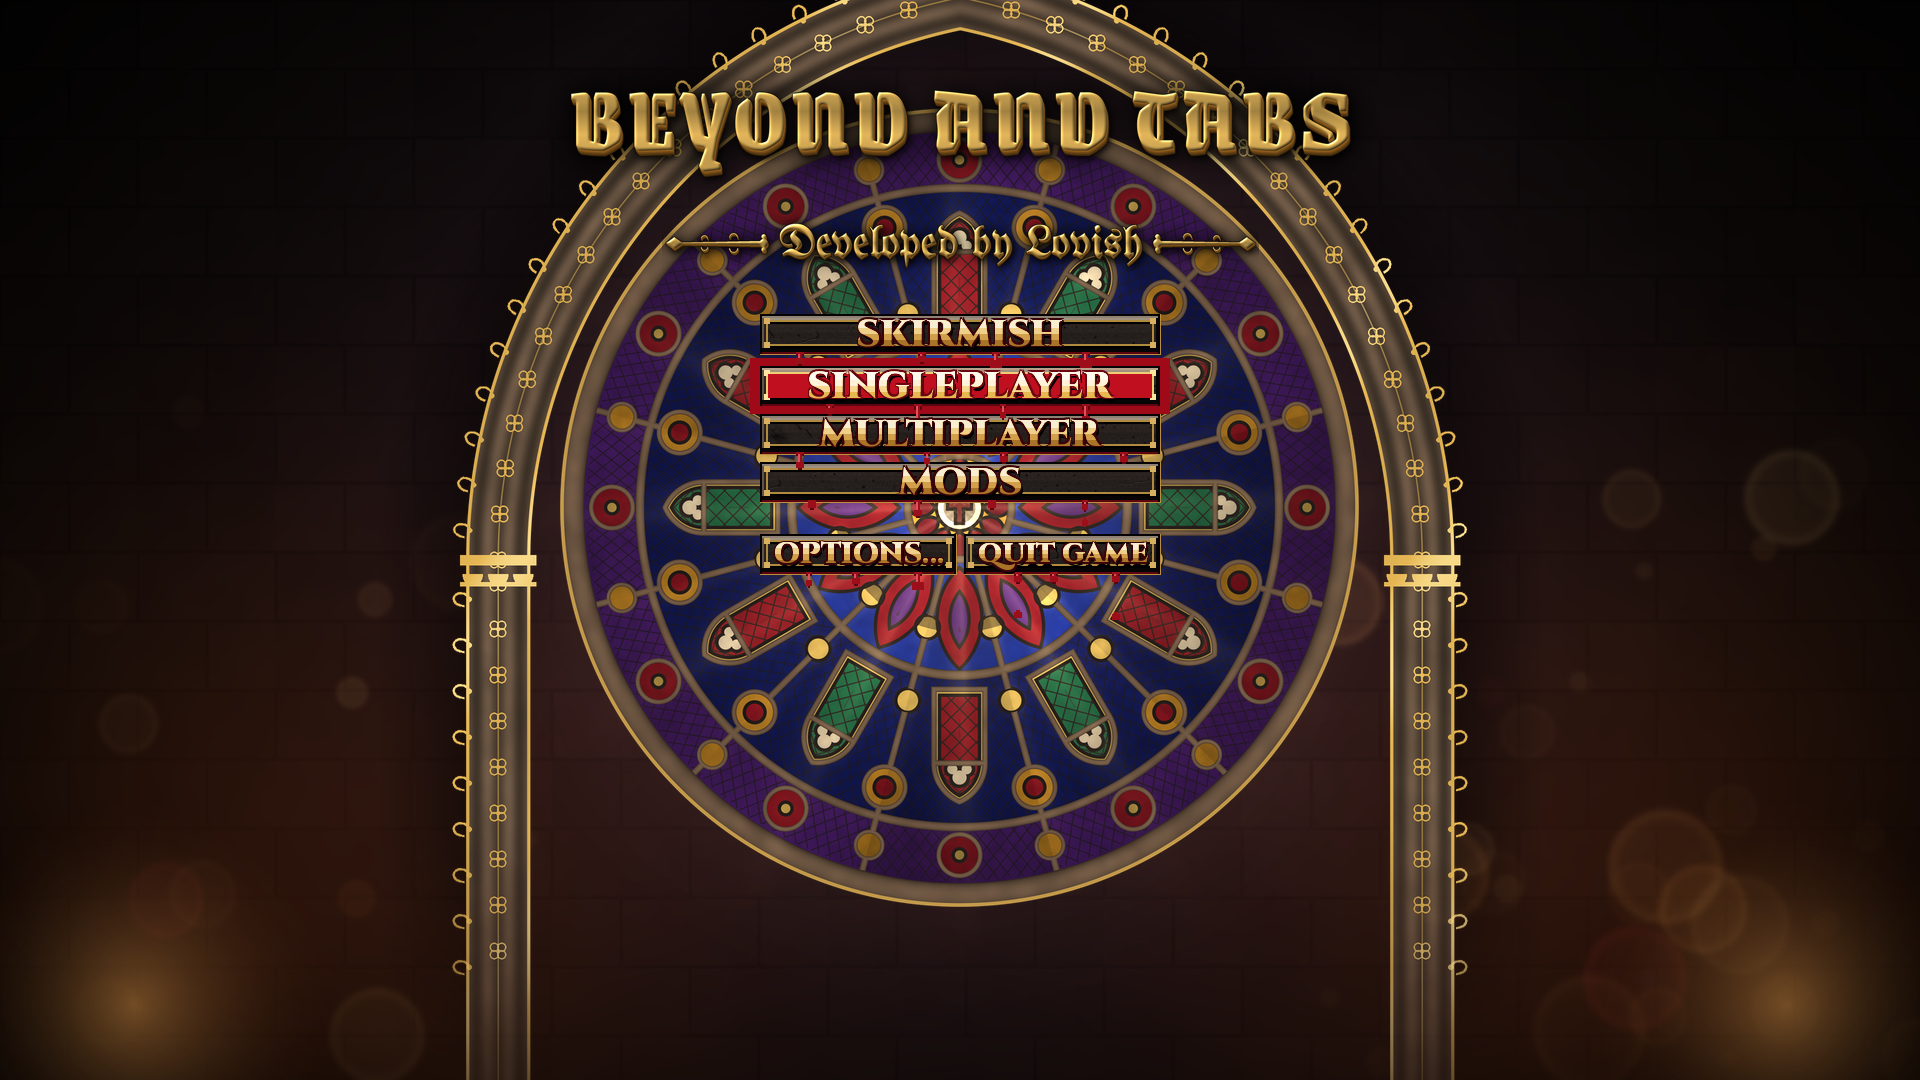
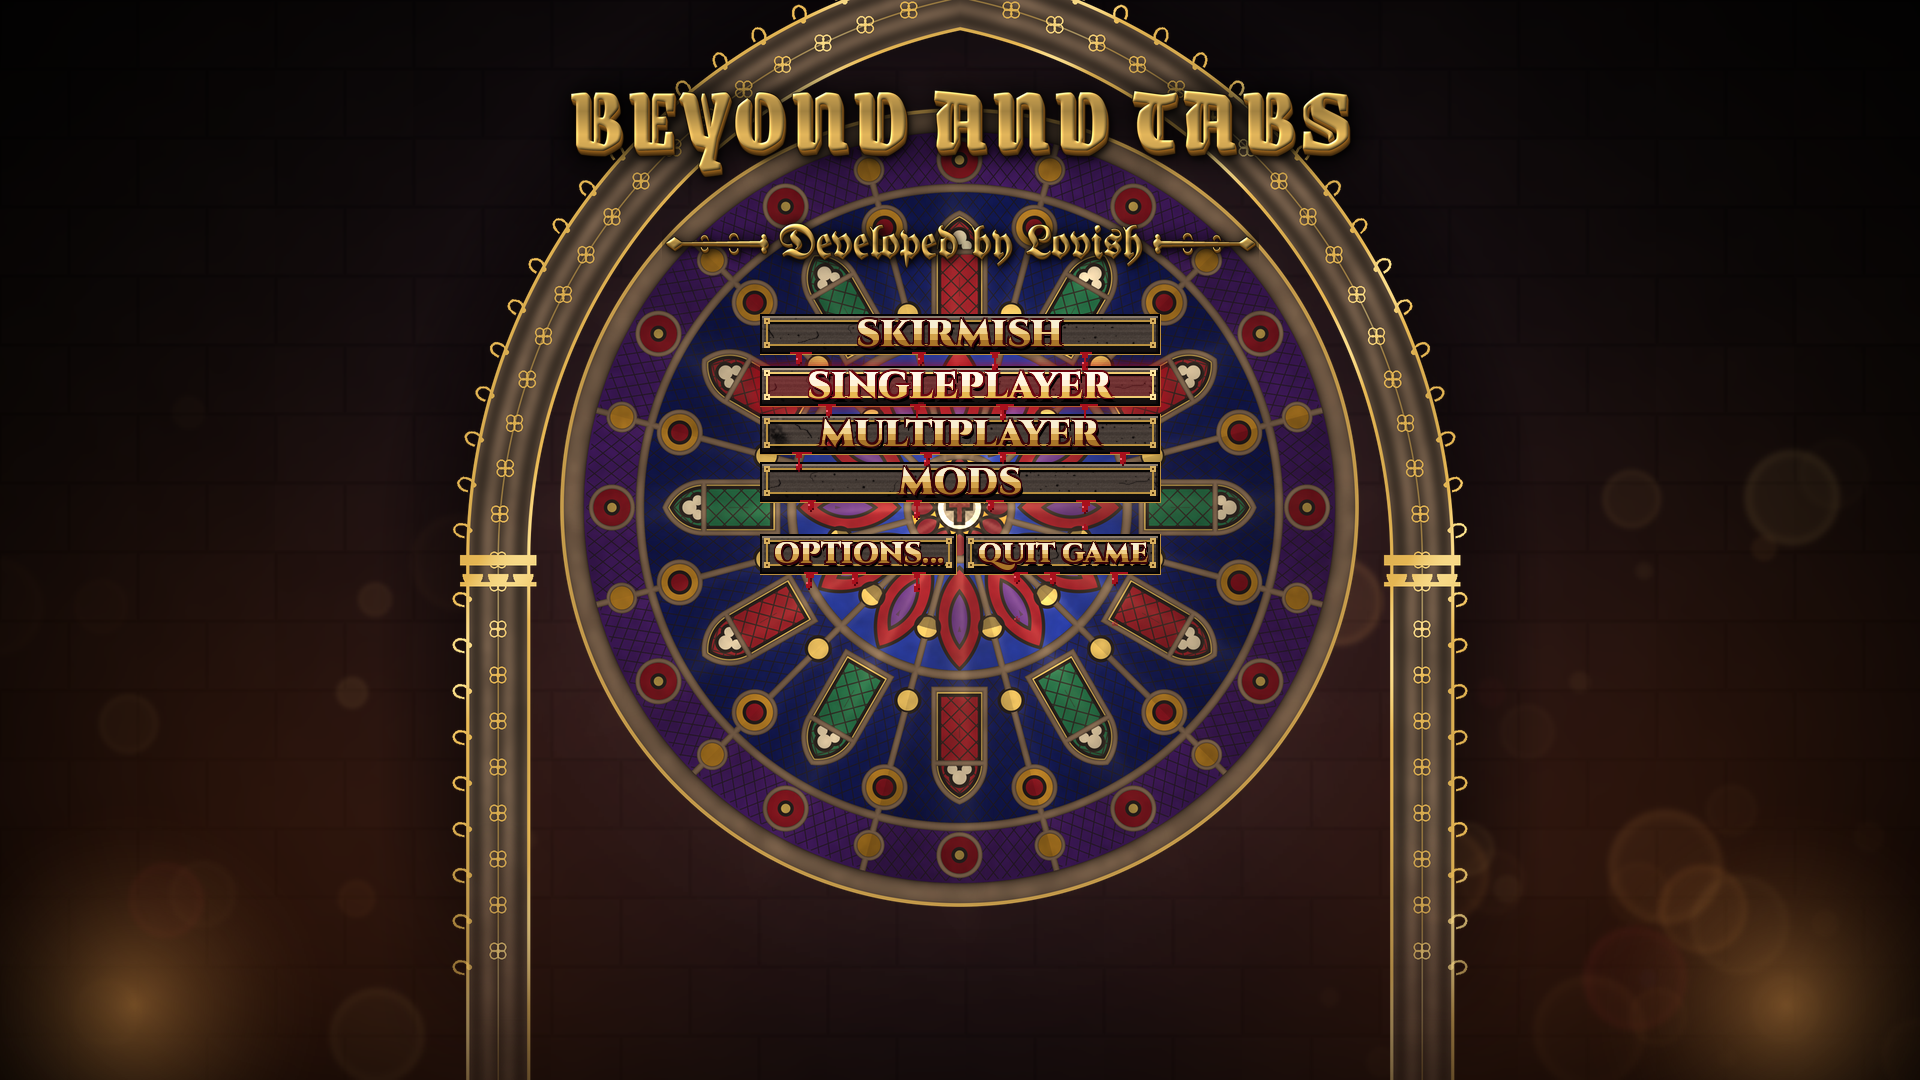
Lobby round 4: title + lobby buttons as carved stone plates with big Cinzel capitals and visible blood
Every restyled button label is now Cinzel Black capitals at ~65 % of the button height (provider lobby_plate, size 25,
scaled down only when a label would not fit), ivory to gold in four bands with a dark crimson outline and a drop
shadow; blackletter stays for the headings. The plate is carved dark stone (textures/gui/lobby/plate.png, sampled per
button) with a bevel, a sunken field, a gold inlay with corner studs and a breathing crimson glow on hover. Blood seeps
from the plate's bottom edge in 2-4 strands that grow, bead and drop (longer and 3x quicker on hover, a burst while
pressed), drawn in a third pass so they hang over the plate below. Positions and hit areas unchanged. Previews at GUI
scale 2 and 4: design/lobby_buttons_gui{2,4}.png.

Claude-Session: https://claude.ai/code/session_01GbCmdes2KTDWiHboVqm6VR

Changed region(s): [[0.375, 0.275, 0.625, 0.4583], [0.4062, 0.4889, 0.5938, 0.55]]

diff --git a/bar/src/main/java/com/solegendary/reignofnether/hud/GothicText.java b/bar/src/main/java/com/solegendary/reignofnether/hud/GothicText.java
@@ -34,9 +34,8 @@ public final class GothicText {
     public static final ResourceLocation BUTTON_FONT = ResourceLocation.fromNamespaceAndPath(ReignOfNether.MOD_ID, "lobby_button");
     public static final ResourceLocation CAPS_FONT = ResourceLocation.fromNamespaceAndPath(ReignOfNether.MOD_ID, "lobby_caps");
     // glyph heights in GUI units (the providers' sizes)
-    private static final int TITLE_H = 16, BUTTON_H = 12, CAPS_H = 10;
+    private static final int TITLE_H = 16;
 
-    private static final int RIM = 0xFFB8892F, RIM_HOT = 0xFFF0CC72;
     private static final int BLOOD_DEEP = 0xFF7E0812, BLOOD = 0xFFB8141F, BLOOD_LIGHT = 0xFFE8505A;
     private static final int STRAND = 0xFF8A0A14, STRAND_HI = 0xFFD8444E;
 
@@ -207,7 +206,7 @@ public final class GothicText {
     private static final float BTN_SIZE = 25f, BTN_CAP = BTN_SIZE * 700f / 1348f, BTN_CAP_TOP = BTN_SIZE * 276f / 1348f;
     private static final int IVORY = 0xFFF8EED2, IVORY_GOLD = 0xFFEFD08A, GOLD = 0xFFD2A04A, GOLD_DEEP = 0xFFA87428;
     private static final int OUTLINE = 0xFF3A0309, OUTLINE_HOT = 0xFF6A0612;
-    private static final int PLATE_BLOOD = 0xFF9C0E1A, PLATE_BLOOD_DARK = 0xFF5E0610, PLATE_BLOOD_HI = 0xFFE0505A;
+    private static final int PLATE_BLOOD = 0xFFA8101C, PLATE_BLOOD_DARK = 0xFF5A0610, PLATE_BLOOD_HI = 0xFFF06070;
 
     /**
      * Repaints text buttons as carved dark stone plates (a bevel: light top edge, dark bottom; a thin gold inlay; a
@@ -257,9 +256,9 @@ public final class GothicText {
     /** the crimson glow round a hovered plate, breathing slowly */
     private static void glow(GuiGraphics g, int x0, int y0, int bw, int bh, float t, int a) {
         float pulse = t < 0 ? 0.6f : 0.6f + 0.4f * Mth.sin(t * 3.1f);
-        for (int i = 4; i >= 1; i--) {
-            int al = (int) ((14 + 16 * pulse) * (5 - i) / 4f * a / 255f);
-            g.fill(x0 - i - 1, y0 - i, x0 + bw + i + 1, y0 + bh + i, (al << 24) | 0xA00A18);
+        for (int i = 5; i >= 1; i--) {
+            int al = (int) ((22 + 26 * pulse) * (6 - i) / 5f * a / 255f);
+            g.fill(x0 - i - 1, y0 - i, x0 + bw + i + 1, y0 + bh + i, (al << 24) | 0xB00A18);
         }
     }
 
@@ -273,33 +272,34 @@ public final class GothicText {
         int u = (hash(seed) % Math.max(1, (PLATE_TW - uw) / PLATE_PX)) * PLATE_PX;
         g.blit(PLATE_TEX, x0, y0, bw, bh, u, (PLATE_TH - vh) / 2f, uw, vh, PLATE_TW, PLATE_TH);
         RenderSystem.setShaderColor(1f, 1f, 1f, 1f);
-        // the bevel: a lit top edge and left edge, a dark bottom and right, a black outer rim
+        // the bevel: a black outer rim, a lit top edge and left edge, a dark bottom and right
         g.fill(x0, y0, x1, y0 + 1, withAlpha(0xFF050304, a));
         g.fill(x0, y1 - 1, x1, y1, withAlpha(0xFF050304, a));
         g.fill(x0, y0, x0 + 1, y1, withAlpha(0xFF050304, a));
         g.fill(x1 - 1, y0, x1, y1, withAlpha(0xFF050304, a));
-        g.fill(x0 + 1, y0 + 1, x1 - 1, y0 + 2, withAlpha(hot ? 0xD8B8A08A : 0xB08E8274, a));
-        g.fill(x0 + 1, y0 + 2, x1 - 1, y0 + 3, withAlpha(0x40A09080, a));
-        g.fill(x0 + 1, y0 + 2, x0 + 2, y1 - 2, withAlpha(0x705E544C, a));
+        g.fill(x0 + 1, y0 + 1, x1 - 1, y0 + 2, withAlpha(hot ? 0xE0C8B49C : 0xC0A89886, a));
+        g.fill(x0 + 1, y0 + 2, x1 - 1, y0 + 3, withAlpha(0x50A09080, a));
+        g.fill(x0 + 1, y0 + 2, x0 + 2, y1 - 2, withAlpha(0x806E625A, a));
         g.fill(x0 + 1, y1 - 3, x1 - 1, y1 - 1, withAlpha(0xD0080506, a));
         g.fill(x1 - 2, y0 + 2, x1 - 1, y1 - 1, withAlpha(0xA0080506, a));
-        // the gold inlay, sunk into the stone: a dark groove under a thin gold line
-        int gold = !active ? 0xFF5C4A2C : hot ? 0xFFF0CC72 : 0xFFB08A3E;
+        // the sunken field inside the inlay: shadow under its top lip, light on its bottom lip
+        g.fill(x0 + 4, y0 + 4, x1 - 4, y0 + 5, withAlpha(0x90000000, a));
+        g.fill(x0 + 4, y0 + 5, x0 + 5, y1 - 5, withAlpha(0x60000000, a));
+        g.fill(x0 + 4, y1 - 5, x1 - 4, y1 - 4, withAlpha(0x58C0A890, a));
+        if (hot)
+            g.fill(x0 + 4, y0 + 4, x1 - 4, y1 - 4, withAlpha(0x50B01020, a));
+        // the gold inlay, sunk into the stone: a dark groove under a thin gold line, studs at the corners
+        int gold = !active ? 0xFF5C4A2C : hot ? 0xFFF0CC72 : 0xFFB89040;
         g.renderOutline(x0 + 3, y0 + 4, bw - 6, bh - 7, withAlpha(0xC0000000, a));
         g.renderOutline(x0 + 3, y0 + 3, bw - 6, bh - 7, withAlpha(gold, a));
-        // corner studs on the inlay
-        int stud = hot ? 0xFFFFE6A0 : 0xFFD8B060;
         if (active) {
-            g.fill(x0 + 2, y0 + 2, x0 + 5, y0 + 5, withAlpha(stud, a));
-            g.fill(x1 - 5, y0 + 2, x1 - 2, y0 + 5, withAlpha(stud, a));
-            g.fill(x0 + 2, y1 - 6, x0 + 5, y1 - 3, withAlpha(stud, a));
-            g.fill(x1 - 5, y1 - 6, x1 - 2, y1 - 3, withAlpha(stud, a));
+            int stud = hot ? 0xFFFFE6A0 : 0xFFD8B060;
+            int[][] at = {{x0 + 2, y0 + 2}, {x1 - 5, y0 + 2}, {x0 + 2, y1 - 6}, {x1 - 5, y1 - 6}};
+            for (int[] p : at) {
+                g.fill(p[0], p[1], p[0] + 3, p[1] + 3, withAlpha(stud, a));
+                g.fill(p[0] + 1, p[1] + 1, p[0] + 2, p[1] + 2, withAlpha(0xFF5A3A14, a));
+            }
         }
-        if (hot)
-            g.fill(x0 + 4, y0 + 4, x1 - 4, y1 - 4, withAlpha(0x30C01020, a));
-        // blood pooled along the bottom lip (where the strands start)
-        if (active)
-            g.fill(x0 + 1, y1 - 1, x1 - 1, y1, withAlpha(PLATE_BLOOD_DARK, a));
     }
 
     /** the label: big engraved capitals, ivory at the top to gold below, a dark crimson outline and a drop shadow */
@@ -355,25 +355,24 @@ public final class GothicText {
     }
 
     /**
-     * Blood seeping from the plate's bottom edge: 2-4 strands (by width) at hashed places, each growing (0-55 % of its
-     * cycle), swelling into a bead (55-70 %) and letting the drop fall (70-100 %), on its own 3-6 s cycle. Hovered: the
-     * strands hang longer and the cycle runs 3x faster; pressed: every strand lets a drop go at once. Reduce motion:
-     * still strands of middling length.
+     * Blood seeping from the plate's bottom edge: 2-4 strands (by width) at hashed places, each from a smear along the
+     * lip, growing (0-55 % of its cycle), swelling into a bead (55-70 %) and letting the drop fall (70-100 %), on its
+     * own 3-6 s cycle. Hovered: the strands hang longer and the cycle runs 3x faster; pressed: every strand lets a drop
+     * go at once. Reduce motion: still strands of middling length. Mirrored by tools/gen_lobby_art.py _plate_drips.
      */
     private static void plateDrips(GuiGraphics g, int x0, int y, int bw, String label, float t, boolean hot, boolean fast,
                                    boolean burst, int a) {
         int n = bw >= 150 ? 4 : bw >= 90 ? 3 : 2;
         int seed = label.hashCode() * 31 + 7;
-        float maxLen = hot ? 9f : 5.5f;
+        float maxLen = hot ? 12f : 7f;
         for (int i = 0; i < n; i++) {
             int h = hash(seed + i * 7919);
-            // spread across the plate, clear of the corner studs
             float fx = (i + 0.25f + 0.5f * ((h >>> 3) % 1000) / 1000f) / n;
             int sx = x0 + 6 + Math.round(fx * (bw - 12));
-            int wdt = (h % 3 == 0) ? 1 : 2;
-            float len = maxLen * (0.6f + 0.4f * ((hash(h + 3) % 100) / 100f));
-            // the seep: a small bulge on the lip above every strand
-            g.fill(sx - 1, y - 1, sx + wdt + 1, y + 1, withAlpha(PLATE_BLOOD, a));
+            int wdt = (h % 3 == 0) ? 2 : 1;
+            float len = maxLen * (0.55f + 0.45f * ((hash(h + 3) % 100) / 100f));
+            // the seep: a smear of blood along the lip above every strand
+            g.fill(sx - 2 - h % 5, y - 1, sx + wdt + 2 + (h >>> 5) % 5, y, withAlpha(PLATE_BLOOD, a));
             if (t < 0f) {
                 bloodStrand(g, sx, y, Math.round(len * 0.7f), wdt, a);
                 continue;
@@ -384,33 +383,35 @@ public final class GothicText {
                 p = Math.max(p, 0.70f + 0.30f * ((t * 2.5f + i * 0.21f) % 1f));
             if (p < 0.55f) {
                 float k = p / 0.55f;
-                bloodStrand(g, sx, y, Math.round(len * (0.3f + 0.7f * k * k * (3 - 2 * k))), wdt, a);
+                bloodStrand(g, sx, y, Math.round(len * (0.35f + 0.65f * k * k * (3 - 2 * k))), wdt, a);
             } else if (p < 0.70f) {
                 int L = Math.round(len);
                 bloodStrand(g, sx, y, L, wdt, a);
-                int bead = (p - 0.55f) / 0.15f > 0.5f ? 1 : 0;
-                g.fill(sx - 1 - bead, y + L - 1, sx + wdt + 1 + bead, y + L + 2 + bead, withAlpha(PLATE_BLOOD, a));
-                g.fill(sx - bead, y + L - 1, sx, y + L, withAlpha(PLATE_BLOOD_HI, a));
+                if ((p - 0.55f) / 0.15f > 0.5f)       // the bead swells
+                    g.fill(sx - 1, y + L + 2, sx + 2, y + L + 3, withAlpha(PLATE_BLOOD, a));
             } else {
                 float k = (p - 0.70f) / 0.30f;
-                bloodStrand(g, sx, y, Math.round(len * (0.3f + 0.15f * (1 - k))), wdt, a);
-                int dy = Math.round(len + 2 + k * k * 22f);
+                bloodStrand(g, sx, y, Math.round(len * (0.35f + 0.15f * (1 - k))), wdt, a);
+                int dy = Math.round(len + 4 + k * k * 22f);
                 int da = Math.round(a * (1f - k * k));
-                g.fill(sx - 1, y + dy, sx + wdt + 1, y + dy + 3, withAlpha(PLATE_BLOOD, da));
-                g.fill(sx, y + dy - 1, sx + wdt, y + dy, withAlpha(PLATE_BLOOD, da));
+                g.fill(sx, y + dy - 1, sx + 1, y + dy, withAlpha(PLATE_BLOOD, da));
+                g.fill(sx - 1, y + dy, sx + 2, y + dy + 2, withAlpha(PLATE_BLOOD, da));
                 g.fill(sx - 1, y + dy, sx, y + dy + 1, withAlpha(PLATE_BLOOD_HI, da));
             }
         }
     }
 
-    /** one strand: a dark edge, a crimson body, a wet highlight down its left side and a rounded bead at the tip */
+    /** one strand: a wide root, a crimson body (shaded on its right when 2 wide) and a rounded, lit bead at the tip */
     private static void bloodStrand(GuiGraphics g, int x, int y, int len, int wdt, int a) {
         if (len <= 0)
             return;
-        g.fill(x - 1, y, x + wdt + 1, y + Math.max(1, len / 3), withAlpha(PLATE_BLOOD_DARK, a));   // wider at the root
+        g.fill(x - 1, y, x + wdt + 1, y + 2, withAlpha(PLATE_BLOOD, a));
         g.fill(x, y, x + wdt, y + len, withAlpha(PLATE_BLOOD, a));
-        g.fill(x, y, x + 1, y + Math.max(1, len - 1), withAlpha(PLATE_BLOOD_HI, a * 0.7f));
-        g.fill(x - 1, y + len - 1, x + wdt + 1, y + len + 2, withAlpha(PLATE_BLOOD, a));
-        g.fill(x, y + len + 2, x + wdt, y + len + 3, withAlpha(PLATE_BLOOD_DARK, a));
+        if (wdt > 1)
+            g.fill(x + wdt - 1, y + 2, x + wdt, y + len, withAlpha(PLATE_BLOOD_DARK, a));
+        g.fill(x - 1, y + len - 1, x + 2, y + len + 2, withAlpha(PLATE_BLOOD, a));
+        g.fill(x - 1, y + len - 1, x, y + len, withAlpha(PLATE_BLOOD_HI, a));
+        g.fill(x + 1, y + len + 1, x + 2, y + len + 2, withAlpha(PLATE_BLOOD_DARK, a));
+        g.fill(x, y + len + 2, x + 1, y + len + 3, withAlpha(PLATE_BLOOD_DARK, a));
     }
 }

diff --git a/tools/gen_lobby_art.py b/tools/gen_lobby_art.py
@@ -2270,7 +2270,8 @@ def plate(w=1024, h=96):
     ys, xs = np.mgrid[0:h, 0:w].astype(np.float32)
     U, V = xs / h, ys / h
     m = fbm(U, V, 3, 911, octaves=5) * 0.6 + fbm(U, V, 14, 912, octaves=3) * 0.4          # 0..1 mottling
-    base = lerp(col((24, 19, 18)), col((50, 42, 38)), m)
+    m = smoothstep(0.22, 0.78, m)
+    base = lerp(col((30, 25, 24)), col((88, 76, 68)), m)
     face = smoothstep(1.0, 0.15, ys / h)[..., None]                                           # lit toward the top
     rgb = base * (0.78 + 0.34 * face)
     rgb = rgb + (fbm(U, V, 2, 913, octaves=2)[..., None] - 0.5) * col((14, 6, 4))         # warm / cool drift
@@ -2351,7 +2352,10 @@ class GuiCanvas:
         a = (argb >> 24) & 255
         c = ((argb >> 16) & 255, (argb >> 8) & 255, argb & 255, a)
         g = self.gs
-        self.d.rectangle([round(x0 * g), round(y0 * g), round(x1 * g) - 1, round(y1 * g) - 1], fill=c)
+        X0, Y0 = max(0, round(x0 * g)), max(0, round(y0 * g))
+        X1, Y1 = min(self.img.width, round(x1 * g)), min(self.img.height, round(y1 * g))
+        if X1 > X0 and Y1 > Y0:
+            self.img.alpha_composite(Image.new("RGBA", (X1 - X0, Y1 - Y0), c), (X0, Y0))
 
     def outline(self, x, y, w, h, argb):
         self.fill(x, y, x + w, y + 1, argb)
@@ -2404,9 +2408,9 @@ def plate_button_pass(cv, pas, label, x0, y0, bw, bh, hot, active, t, tex):
     x1, y1 = x0 + bw, y0 + bh
     if pas == 0:
         if hot:
-            for i in range(4, 0, -1):
-                al = int((14 + 16 * 0.8) * (5 - i) / 4)
-                cv.fill(x0 - i - 1, y0 - i, x1 + i + 1, y1 + i, (al << 24) | 0xA00A18)
+            for i in range(5, 0, -1):
+                al = int((22 + 26 * 0.8) * (6 - i) / 5)
+                cv.fill(x0 - i - 1, y0 - i, x1 + i + 1, y1 + i, (al << 24) | 0xB00A18)
         return
     if pas == 1:
         tex = tex or Image.open(os.path.join(OUT, "plate.png")).convert("RGB")
@@ -2416,22 +2420,24 @@ def plate_button_pass(cv, pas, label, x0, y0, bw, bh, hot, active, t, tex):
         cv.blit(tex, x0, y0, bw, bh, u, (96 - vh) / 2, uw, vh, (lit, lit * (0.93 if hot else 1), lit * (0.92 if hot else 1)))
         for r_ in ((x0, y0, x1, y0 + 1), (x0, y1 - 1, x1, y1), (x0, y0, x0 + 1, y1), (x1 - 1, y0, x1, y1)):
             cv.fill(*r_, 0xFF050304)
-        cv.fill(x0 + 1, y0 + 1, x1 - 1, y0 + 2, 0xD8B8A08A if hot else 0xB08E8274)
-        cv.fill(x0 + 1, y0 + 2, x1 - 1, y0 + 3, 0x40A09080)
-        cv.fill(x0 + 1, y0 + 2, x0 + 2, y1 - 2, 0x705E544C)
+        cv.fill(x0 + 1, y0 + 1, x1 - 1, y0 + 2, 0xE0C8B49C if hot else 0xC0A89886)
+        cv.fill(x0 + 1, y0 + 2, x1 - 1, y0 + 3, 0x50A09080)
+        cv.fill(x0 + 1, y0 + 2, x0 + 2, y1 - 2, 0x806E625A)
         cv.fill(x0 + 1, y1 - 3, x1 - 1, y1 - 1, 0xD0080506)
         cv.fill(x1 - 2, y0 + 2, x1 - 1, y1 - 1, 0xA0080506)
-        gold = 0xFF5C4A2C if not active else 0xFFF0CC72 if hot else 0xFFB08A3E
+        cv.fill(x0 + 4, y0 + 4, x1 - 4, y0 + 5, 0x90000000)
+        cv.fill(x0 + 4, y0 + 5, x0 + 5, y1 - 5, 0x60000000)
+        cv.fill(x0 + 4, y1 - 5, x1 - 4, y1 - 4, 0x58C0A890)
+        if hot:
+            cv.fill(x0 + 4, y0 + 4, x1 - 4, y1 - 4, 0x50B01020)
+        gold = 0xFF5C4A2C if not active else 0xFFF0CC72 if hot else 0xFFB89040
         cv.outline(x0 + 3, y0 + 4, bw - 6, bh - 7, 0xC0000000)
         cv.outline(x0 + 3, y0 + 3, bw - 6, bh - 7, gold)
         if active:
             stud = 0xFFFFE6A0 if hot else 0xFFD8B060
             for sx, sy in ((x0 + 2, y0 + 2), (x1 - 5, y0 + 2), (x0 + 2, y1 - 6), (x1 - 5, y1 - 6)):
                 cv.fill(sx, sy, sx + 3, sy + 3, stud)
-        if hot:
-            cv.fill(x0 + 4, y0 + 4, x1 - 4, y1 - 4, 0x30C01020)
-        if active:
-            cv.fill(x0 + 1, y1 - 1, x1 - 1, y1, 0xFF5E0610)
+                cv.fill(sx + 1, sy + 1, sx + 2, sy + 2, 0xFF5A3A14)
         return
     # pass 2: blood, then the label
     if active:
@@ -2460,45 +2466,51 @@ def plate_button_pass(cv, pas, label, x0, y0, bw, bh, hot, active, t, tex):
         cv.text(text, CAPS_TTF, BTN_SIZE, tx, ty, s, bands[k], clip)
 
 
-def _plate_drips(cv, x0, y, bw, label, t, hot):
-    BLOOD, DARK, HI = 0xFF9C0E1A, 0xFF5E0610, 0xFFE0505A
+def _plate_drips(cv, x0, y, bw, label, t, hot, burst=False):
+    """GothicText.plateDrips (mirrors the Java)."""
+    BLOOD, DARK, HI = 0xFFA8101C, 0xFF5A0610, 0xFFF06070
 
     def strand(x, L, wd):
         if L <= 0:
             return
-        cv.fill(x - 1, y, x + wd + 1, y + max(1, L // 3), DARK)
+        cv.fill(x - 1, y, x + wd + 1, y + 2, BLOOD)
         cv.fill(x, y, x + wd, y + L, BLOOD)
-        cv.fill(x, y, x + 1, y + max(1, L - 1), (int(255 * 0.7) << 24) | (HI & 0xFFFFFF))
-        cv.fill(x - 1, y + L - 1, x + wd + 1, y + L + 2, BLOOD)
-        cv.fill(x, y + L + 2, x + wd, y + L + 3, DARK)
+        cv.fill(x + wd - 1, y + 2, x + wd, y + L, DARK) if wd > 1 else None
+        cv.fill(x - 1, y + L - 1, x + 2, y + L + 2, BLOOD)
+        cv.fill(x - 1, y + L - 1, x, y + L, HI)
+        cv.fill(x + 1, y + L + 1, x + 2, y + L + 2, DARK)
+        cv.fill(x, y + L + 2, x + 1, y + L + 3, DARK)
 
     n = 4 if bw >= 150 else 3 if bw >= 90 else 2
     seed = (_jhash(label) * 31 + 7) & 0xFFFFFFFF
-    maxlen = 9.0 if hot else 5.5
+    maxlen = 12.0 if hot else 7.0
     for i in range(n):
         h = _h32((seed + i * 7919) & 0xFFFFFFFF)
         fx = (i + 0.25 + 0.5 * ((h >> 3) % 1000) / 1000) / n
         sx = x0 + 6 + round(fx * (bw - 12))
-        wd = 1 if h % 3 == 0 else 2
-        ln = maxlen * (0.6 + 0.4 * (_h32(h + 3) % 100) / 100)
-        cv.fill(sx - 1, y - 1, sx + wd + 1, y + 1, BLOOD)
+        wd = 2 if h % 3 == 0 else 1
+        ln = maxlen * (0.55 + 0.45 * (_h32(h + 3) % 100) / 100)
+        cv.fill(sx - 2 - h % 5, y - 1, sx + wd + 2 + (h >> 5) % 5, y, BLOOD)
         period = (3 + 3 * (h % 1000) / 1000) / (3 if hot else 1)
         p = (t / period + (_h32(h) % 1000) / 1000) % 1
+        if burst:
+            p = max(p, 0.70 + 0.30 * ((t * 2.5 + i * 0.21) % 1))
         if p < 0.55:
             k = p / 0.55
-            strand(sx, round(ln * (0.3 + 0.7 * k * k * (3 - 2 * k))), wd)
+            strand(sx, round(ln * (0.35 + 0.65 * k * k * (3 - 2 * k))), wd)
         elif p < 0.70:
             L = round(ln)
             strand(sx, L, wd)
-            bead = 1 if (p - 0.55) / 0.15 > 0.5 else 0
-            cv.fill(sx - 1 - bead, y + L - 1, sx + wd + 1 + bead, y + L + 2 + bead, BLOOD)
+            if (p - 0.55) / 0.15 > 0.5:
+                cv.fill(sx - 1, y + L + 2, sx + 2, y + L + 3, BLOOD)
         else:
             k = (p - 0.70) / 0.30
-            strand(sx, round(ln * (0.3 + 0.15 * (1 - k))), wd)
-            dy = round(ln + 2 + k * k * 22)
+            strand(sx, round(ln * (0.35 + 0.15 * (1 - k))), wd)
+            dy = round(ln + 4 + k * k * 22)
             da = round(255 * (1 - k * k))
-            cv.fill(sx - 1, y + dy, sx + wd + 1, y + dy + 3, (da << 24) | (BLOOD & 0xFFFFFF))
-            cv.fill(sx, y + dy - 1, sx + wd, y + dy, (da << 24) | (BLOOD & 0xFFFFFF))
+            cv.fill(sx, y + dy - 1, sx + 1, y + dy, (da << 24) | (BLOOD & 0xFFFFFF))
+            cv.fill(sx - 1, y + dy, sx + 2, y + dy + 2, (da << 24) | (BLOOD & 0xFFFFFF))
+            cv.fill(sx - 1, y + dy, sx, y + dy + 1, (da << 24) | (HI & 0xFFFFFF))
 
 
 def title_buttons(img, gs, t=1.3, hot_label="Singleplayer"):
